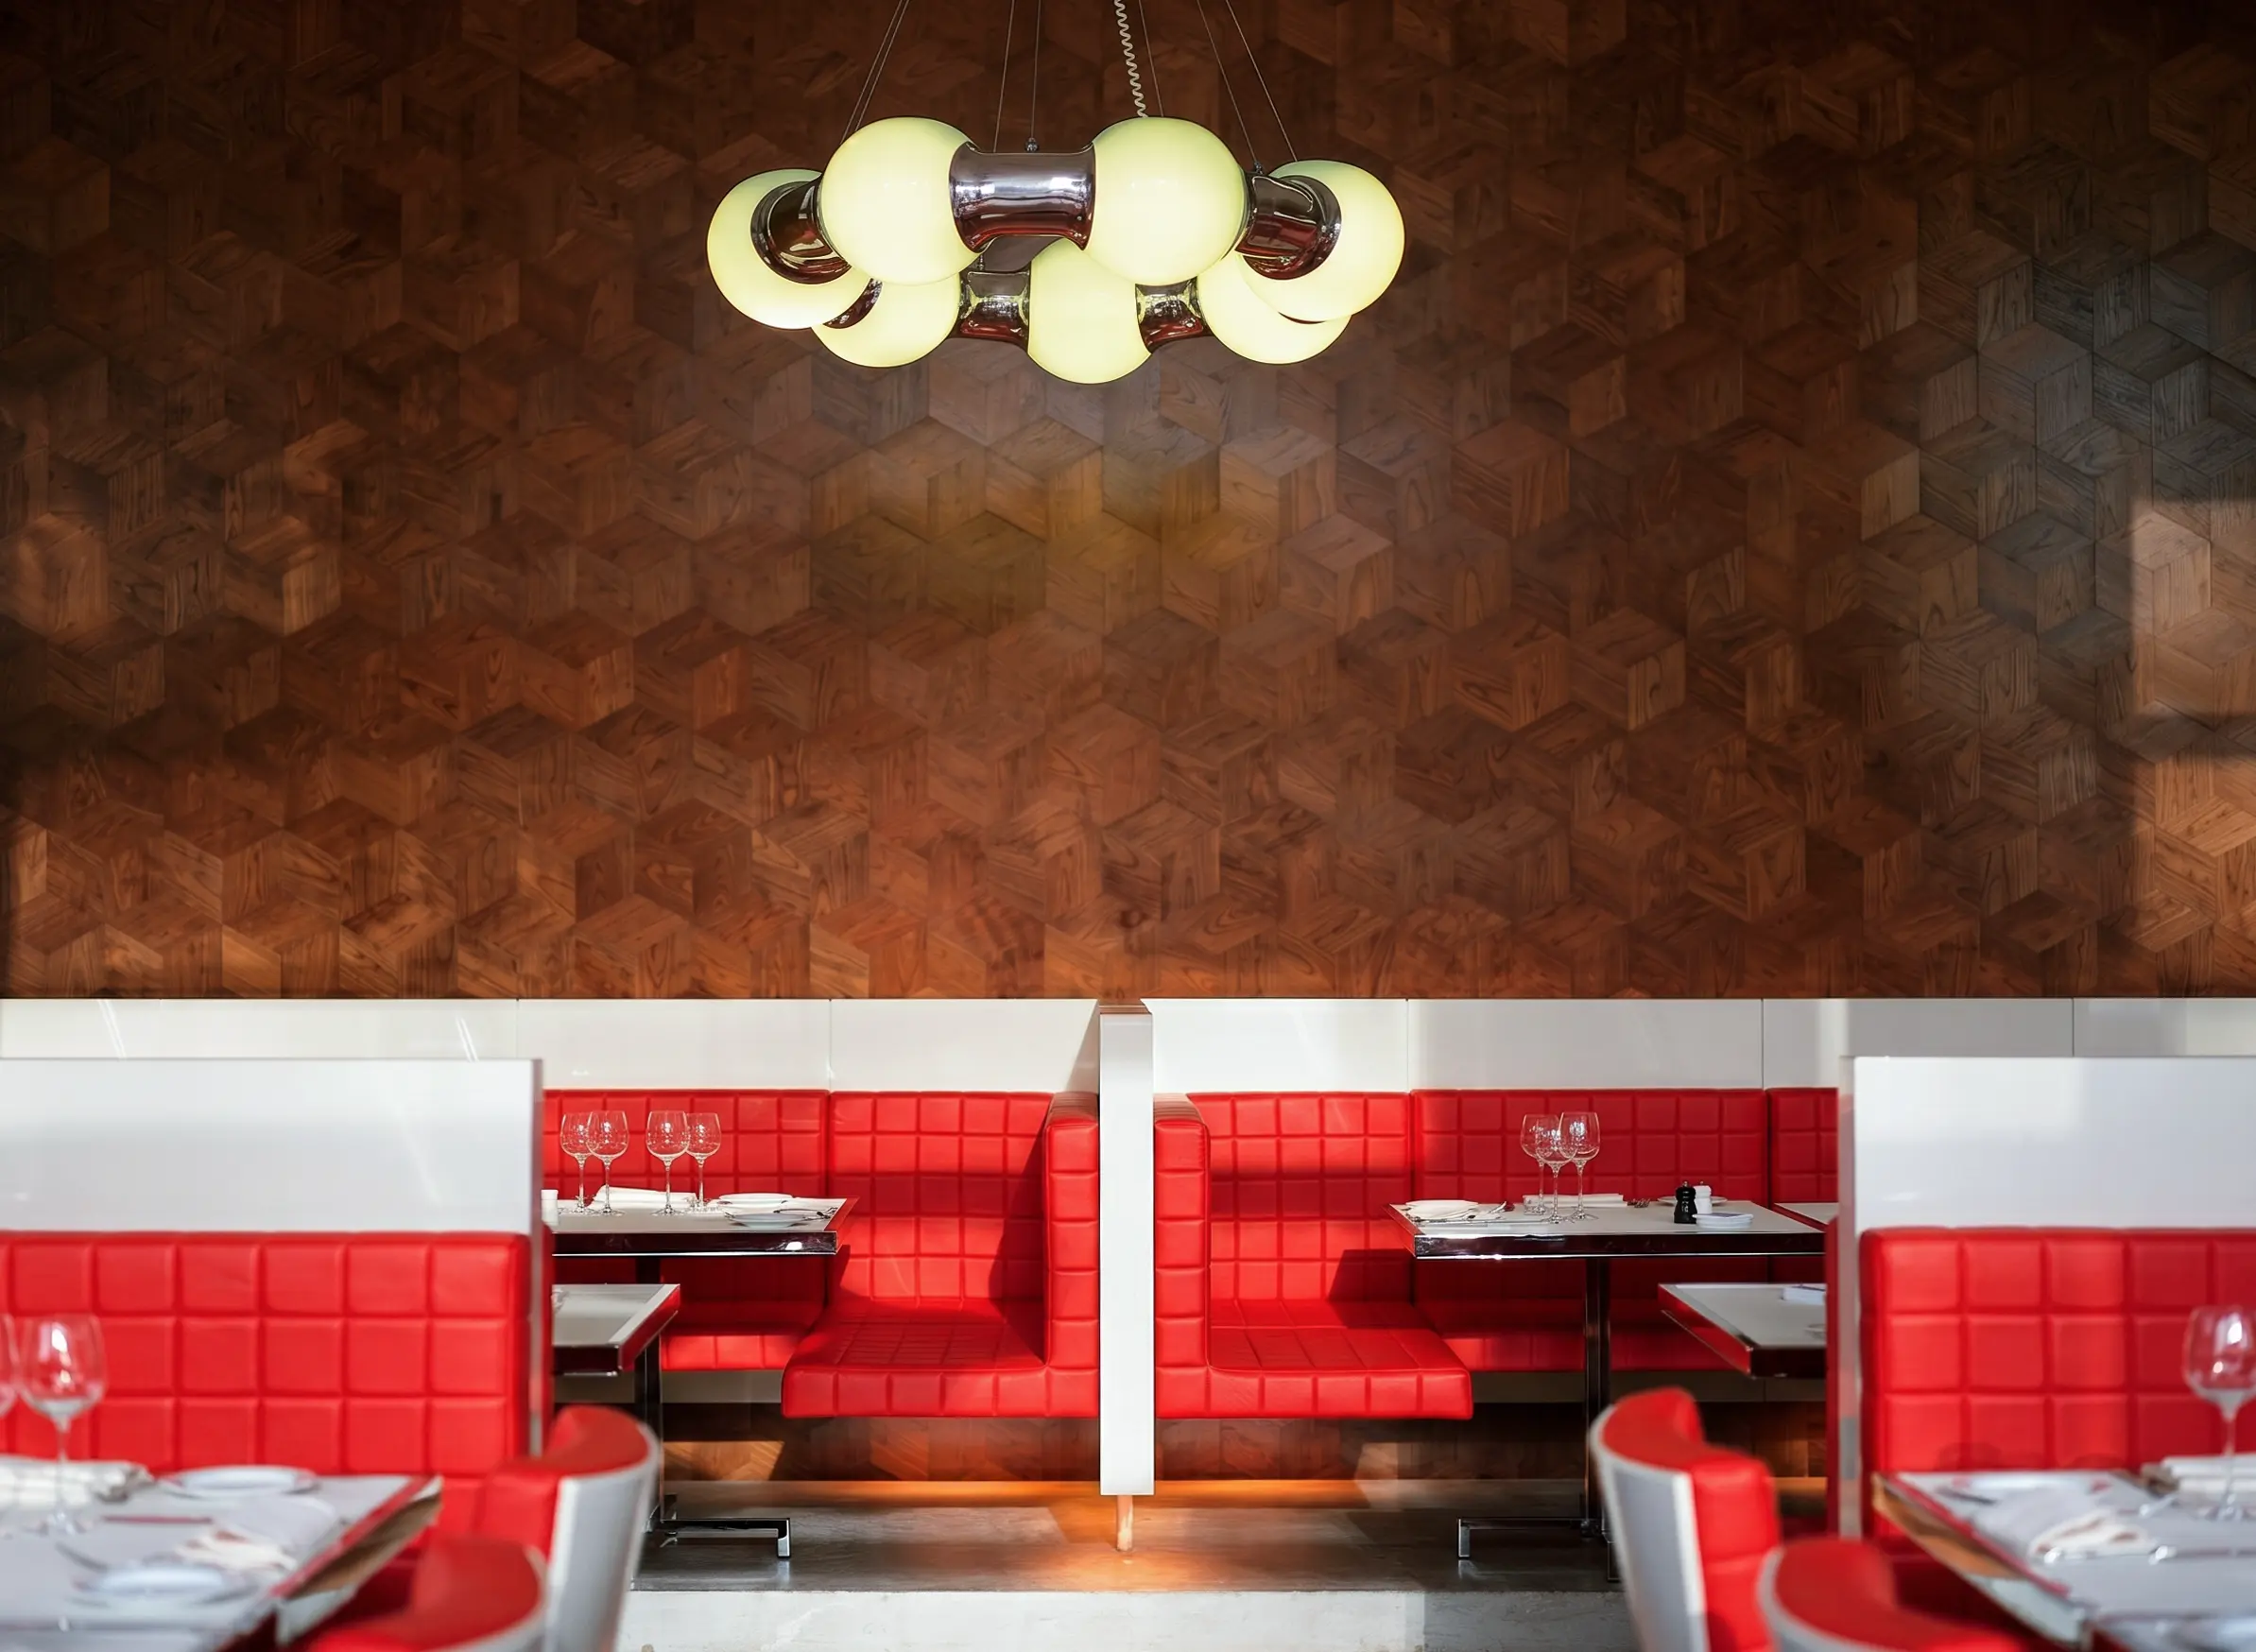
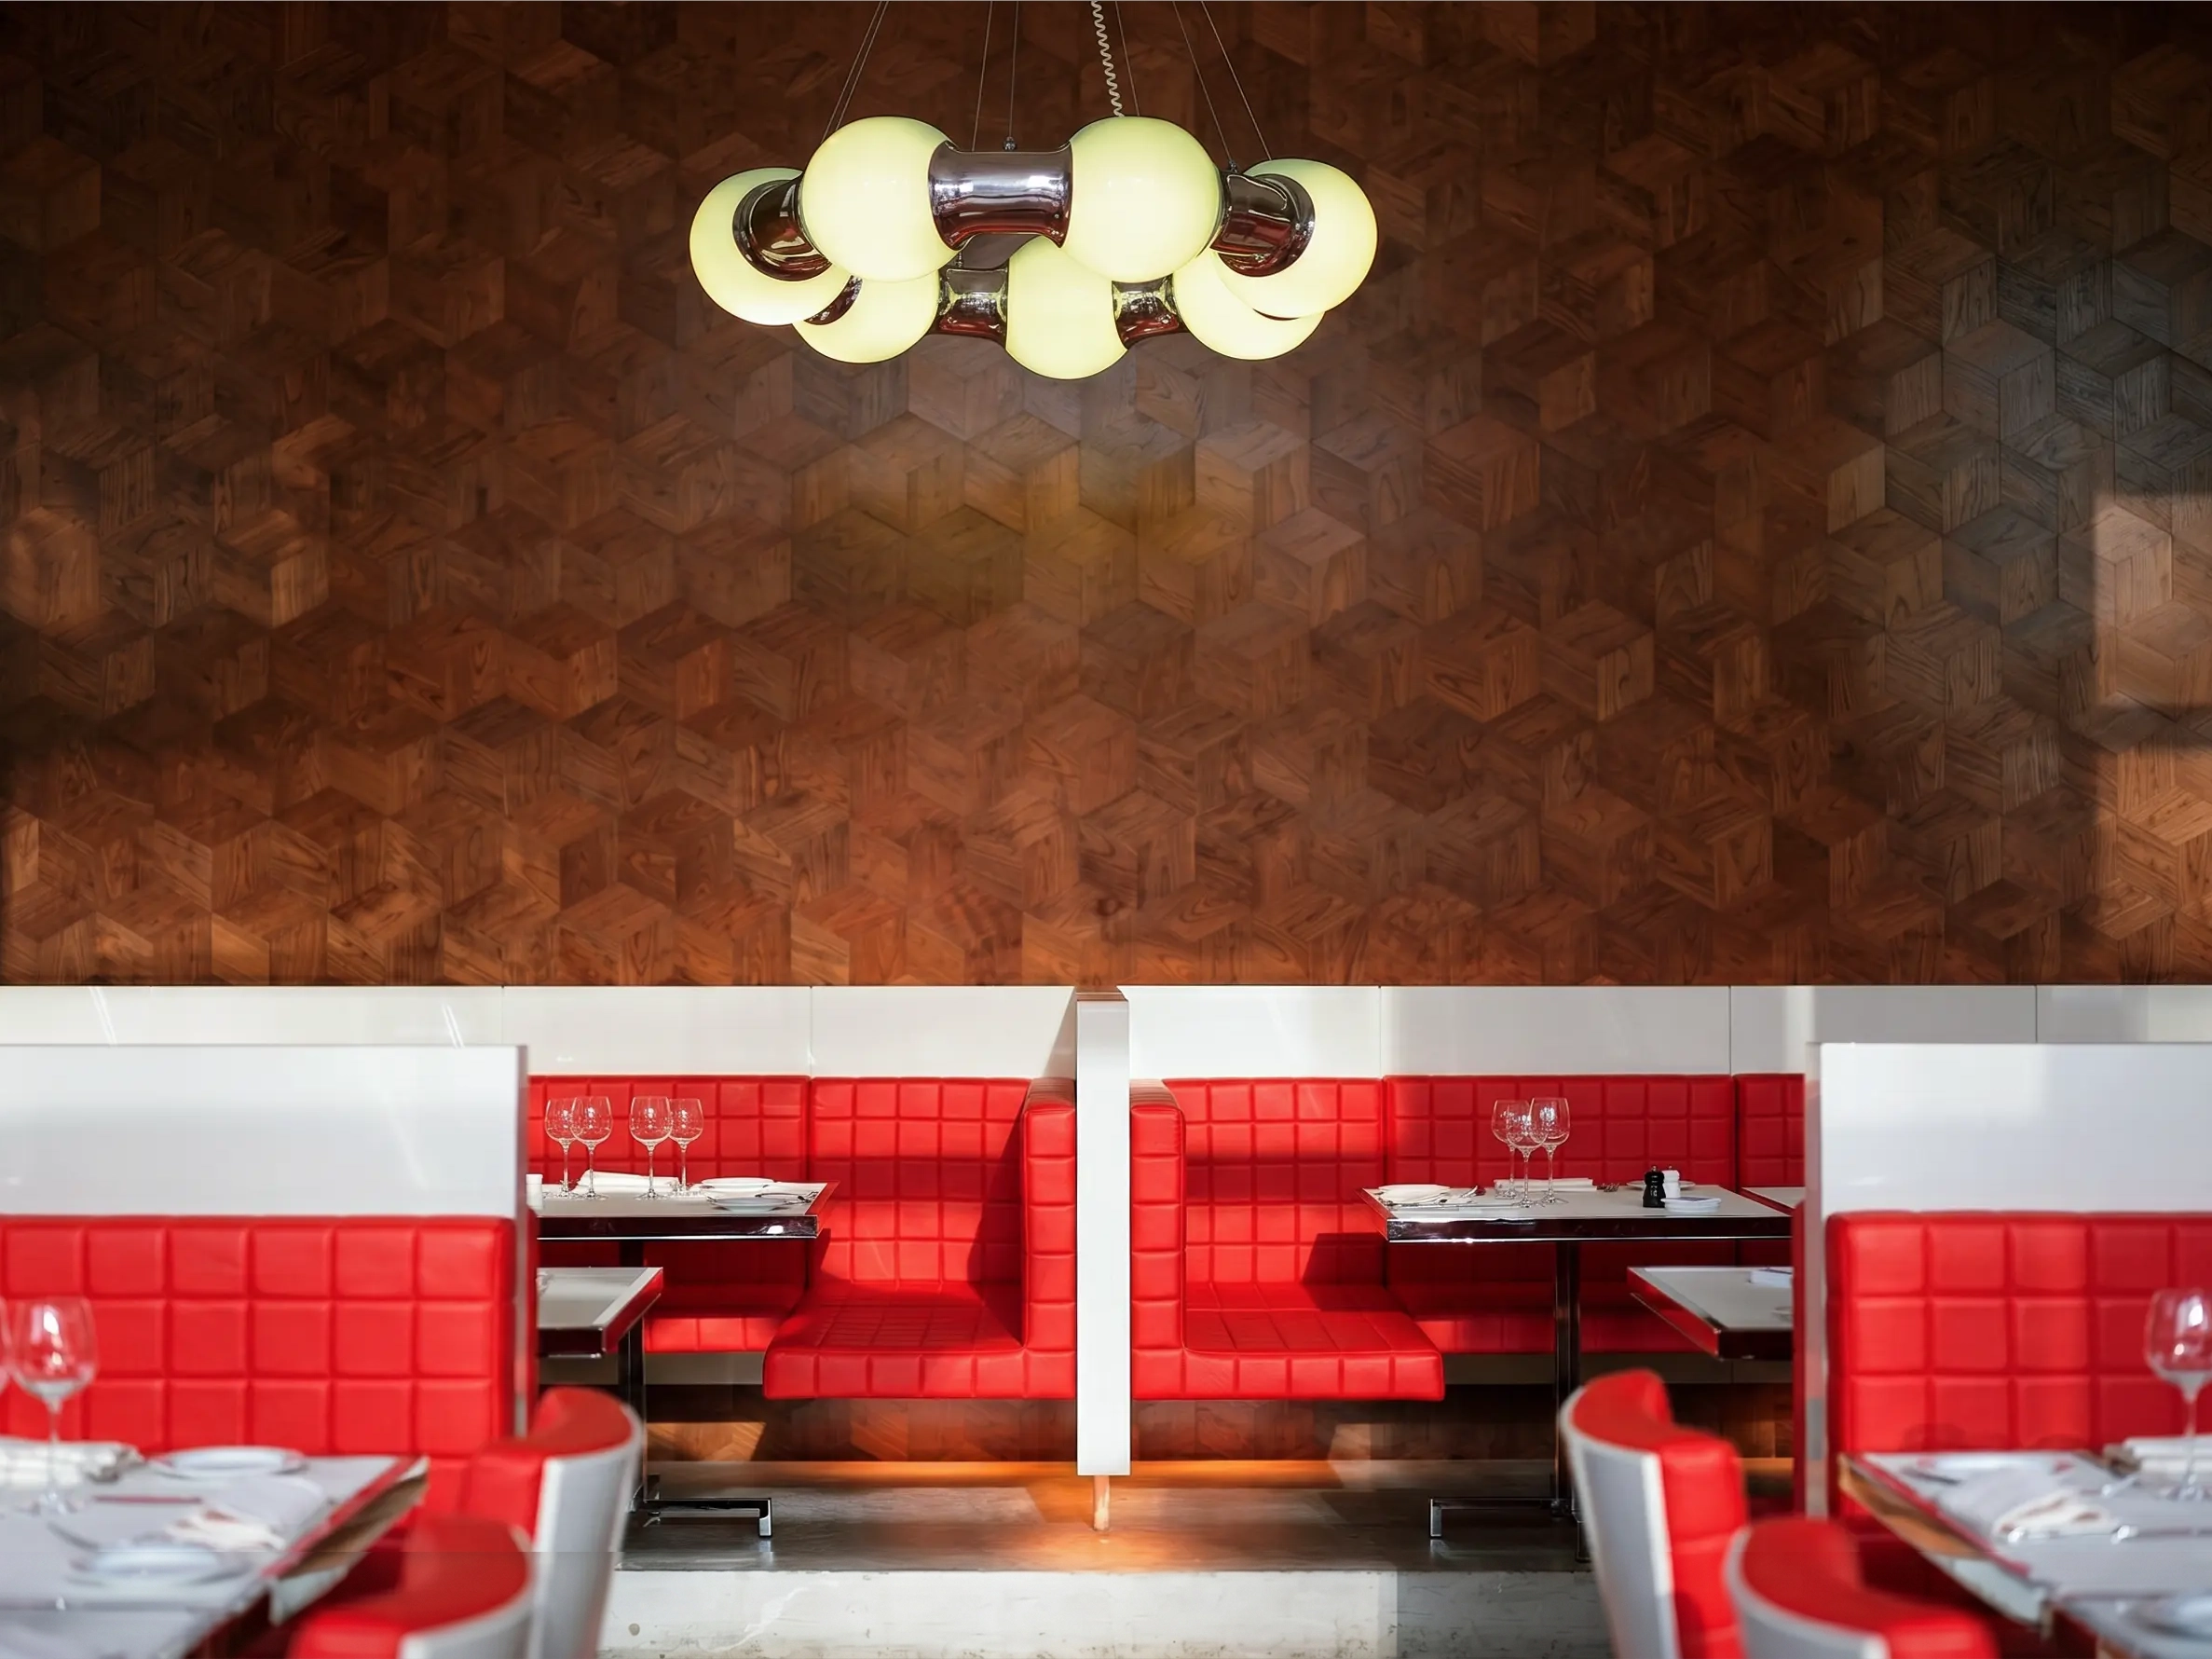
update on objects

diff --git a/js/home-renderer.js b/js/home-renderer.js
@@ -183,6 +183,20 @@ document.addEventListener("DOMContentLoaded", () => {
                     frameborder="0" allow="autoplay" title="Floating Video"></iframe>
             </div>`;
         }
+
+        if (item.type === 'model3d') {
+            const modelPath = `${ASSET_BASE}/assets/projects/${projectId}/${item.src}`;
+            const uid = `model3d-${Math.random().toString(36).slice(2, 9)}`;
+            
+            // 加入 aspect-ratio 确保画布有高度，加 cursor: grab 提示可拖拽
+            return `
+            <div class="model3d-wrapper" style="position: relative; width: 100%; aspect-ratio: 4/3; background: transparent; overflow: hidden; cursor: grab;">
+                <div class="model3d-canvas" id="${uid}" data-src="${modelPath}" style="width: 100%; height: 100%;"></div>
+                <div class="model-loading" id="load-${uid}" style="position: absolute; top: 50%; left: 50%; transform: translate(-50%, -50%); font-family: 'Tinos', serif; font-size: 1.2rem; color: #888; pointer-events: none;">
+                    Loading 3D Model...
+                </div>
+            </div>`;
+        }
         
         if (item.type === 'video') {
             // [重点修改]：Vimeo 视频强制竖版 (3:4)
@@ -372,6 +386,7 @@ document.addEventListener("DOMContentLoaded", () => {
         modalBody.innerHTML = htmlContent;
         initDepth3D(modalBody);
         initFloatingVideo(modalBody);
+        initModel3D(modalBody); // <--- 新增这行，触发 3D 模型渲染
         setTimeout(() => initVimeoSound(modalBody), 600);
         modalBody.querySelectorAll('.project-carousel').forEach(car => {
             const track = car.querySelector('.carousel-track');
@@ -778,15 +793,43 @@ function initFlipbooks(scope) {
         });
     }
 
-// === 3D 视差初始化（按需加载 Three.js）===
+
+    // 等首页格子渲染完再初始化（视频加载慢就调大这个数字）
+    setTimeout(initVimeoSound, 2000);
+
+    window.addEventListener("resize", debounce(resizeAllGridItems, 100));
+
+// === 3D 视差与模型共用的基础初始化（升级引入 RoomEnvironment）===
     let threeLoading = null;
     function loadThree() {
-        if (window.THREE) return Promise.resolve();
+        if (window.THREE && window.THREE.GLTFLoader && window.THREE.RoomEnvironment) return Promise.resolve();
         if (threeLoading) return threeLoading;
+        
         threeLoading = new Promise((res, rej) => {
             const s = document.createElement('script');
-            s.src = 'https://cdn.jsdelivr.net/npm/three@0.160.0/build/three.min.js';
-            s.onload = res;
+            s.src = 'https://cdn.jsdelivr.net/npm/three@0.147.0/build/three.min.js';
+            
+            s.onload = () => {
+                // 并行加载 GLTFLoader 和 RoomEnvironment
+                const s1 = document.createElement('script');
+                s1.src = 'https://cdn.jsdelivr.net/npm/three@0.147.0/examples/js/loaders/GLTFLoader.js';
+                const s2 = document.createElement('script');
+                s2.src = 'https://cdn.jsdelivr.net/npm/three@0.147.0/examples/js/environments/RoomEnvironment.js';
+                
+                let loadedCount = 0;
+                const checkDone = () => {
+                    loadedCount++;
+                    if (loadedCount === 2) res(); // 两个都加载完才算成功
+                };
+
+                s1.onload = checkDone;
+                s2.onload = checkDone;
+                s1.onerror = rej;
+                s2.onerror = rej;
+                
+                document.head.appendChild(s1);
+                document.head.appendChild(s2);
+            };
             s.onerror = rej;
             document.head.appendChild(s);
         });
@@ -845,7 +888,6 @@ function initFlipbooks(scope) {
             resize();
             window.addEventListener('resize', debounce(resize, 100));
 
-            // 眼睛跟随器（全局只建一个，多个 depth3d 共用）
             let eye = document.getElementById('depth3d-eye');
             if (!eye) {
                 eye = document.createElement('div');
@@ -863,7 +905,6 @@ function initFlipbooks(scope) {
                 const r = el.getBoundingClientRect();
                 tx = ((e.clientX - r.left) / r.width - 0.5);
                 ty = ((e.clientY - r.top) / r.height - 0.5);
-                // 眼睛跟随鼠标
                 if (!eyeRAF) {
                     requestAnimationFrame(() => {
                         eye.style.transform = `translate(${e.clientX}px, ${e.clientY}px)`;
@@ -874,7 +915,6 @@ function initFlipbooks(scope) {
             });
             el.addEventListener('mouseenter', () => {
                 eye.classList.add('active');
-                // 进入时眨一下
                 eye.classList.add('blink');
                 setTimeout(() => eye.classList.remove('blink'), 300);
             });
@@ -898,14 +938,11 @@ function initFlipbooks(scope) {
         }).catch(() => {});
     }
 
-
-   function initFloatingVideo(scope) {
+    function initFloatingVideo(scope) {
         if (typeof Vimeo === 'undefined') return;
         const nodes = scope.querySelectorAll('.floating-video:not([data-ready])');
         nodes.forEach(node => {
             node.setAttribute('data-ready', '1');
-
-            // 移到 body 下，摆脱弹窗的 transform 祖先，fixed 才相对视口
             document.body.appendChild(node);
 
             const iframe = node.querySelector('iframe');
@@ -918,7 +955,7 @@ function initFlipbooks(scope) {
             let playing = false;
             player.pause();
             node.addEventListener('mouseenter', () => {
-                if (node.classList.contains('minimized')) return;   // 缩起时不响应
+                if (node.classList.contains('minimized')) return;
                 if (playing) {
                     player.pause();
                     playing = false;
@@ -929,7 +966,6 @@ function initFlipbooks(scope) {
                 }
             });
 
-            // minimize 按钮
             const toggleBtn = node.querySelector('.fv-toggle');
             if (toggleBtn) {
                 toggleBtn.addEventListener('click', (e) => {
@@ -942,13 +978,147 @@ function initFlipbooks(scope) {
         });
     }
 
+    // === 3D 模型初始化 (PBR真实质感 + 边缘轮廓光) ===
+    async function initModel3D(scope) {
+        const nodes = scope.querySelectorAll('.model3d-canvas:not([data-ready])');
+        if (!nodes.length) return;
 
+        await loadThree();
+        const THREE = window.THREE;
 
+        // 1. 全局监听鼠标/触摸位置 (归一化到 -0.5 到 0.5)
+        let mouseX = 0;
+        let mouseY = 0;
+        if (!window._modelMouseListenerAdded) {
+            // 桌面端：鼠标移动
+            window.addEventListener('mousemove', (e) => {
+                mouseX = (e.clientX / window.innerWidth) - 0.5;
+                mouseY = (e.clientY / window.innerHeight) - 0.5;
+            });
+            
+            // 移动端：手指滑动 (加 passive:true 防止页面滚动卡顿)
+            window.addEventListener('touchmove', (e) => {
+                if (e.touches.length > 0) {
+                    mouseX = (e.touches[0].clientX / window.innerWidth) - 0.5;
+                    mouseY = (e.touches[0].clientY / window.innerHeight) - 0.5;
+                }
+            }, { passive: true });
+            
+            window._modelMouseListenerAdded = true;
+        }
 
+        nodes.forEach(el => {
+            el.setAttribute('data-ready', '1');
+            const modelUrl = el.getAttribute('data-src');
+            const loaderUI = document.getElementById('load-' + el.id);
 
+            const w = el.clientWidth;
+            const h = el.clientHeight;
 
-    // 等首页格子渲染完再初始化（视频加载慢就调大这个数字）
-    setTimeout(initVimeoSound, 2000);
+            const scene = new THREE.Scene();
+            
+            // 相机归零，稍微拉远，死死盯住画面正中心 (解决模型偏下的问题)
+            const camera = new THREE.PerspectiveCamera(45, w / h, 0.1, 1000);
+            camera.position.set(0, 0, 6); 
+            camera.lookAt(0, 0, 0);
 
-    window.addEventListener("resize", debounce(resizeAllGridItems, 100));
-});
+            // 保持背景透明，融入你的网页纯白底色
+            const renderer = new THREE.WebGLRenderer({ antialias: true, alpha: true });
+            renderer.setSize(w, h);
+            renderer.setPixelRatio(Math.min(window.devicePixelRatio, 2));
+            
+            // 🌟 核心魔法 1：开启物理色彩空间，金属质感飞升
+            renderer.outputEncoding = THREE.sRGBEncoding;
+            renderer.toneMapping = THREE.ACESFilmicToneMapping;
+            renderer.toneMappingExposure = 1.0; 
+            
+            el.appendChild(renderer.domElement);
+
+            // 🌟 核心魔法 2：生成虚拟摄影棚环境 (提供四周的反射光斑)
+            const pmremGenerator = new THREE.PMREMGenerator(renderer);
+            pmremGenerator.compileEquirectangularShader();
+            scene.environment = pmremGenerator.fromScene(new THREE.RoomEnvironment(), 0.04).texture;
+
+            // 🌟 核心魔法 3：高级打光法则
+            // 基础微弱环境光（防止暗部彻底死黑）
+            scene.add(new THREE.AmbientLight(0xffffff, 0.3));
+
+            // 正面补光 (Fill Light)：温柔照亮正面细节
+            const fillLight = new THREE.DirectionalLight(0xffffff, 1.2);
+            fillLight.position.set(2, 2, 5);
+            scene.add(fillLight);
+
+            // 强烈轮廓光 (Rim Light)：从左后上方打过来，专门刮擦金属边缘，勾勒轮廓！
+            const rimLight = new THREE.DirectionalLight(0xffaa77, 3.0); // 稍微带一点暖色调的高光
+            rimLight.position.set(-5, 5, -5);
+            scene.add(rimLight);
+
+            let targetGroup = null;
+
+            const loader = new THREE.GLTFLoader();
+            loader.load(modelUrl, (gltf) => {
+                if(loaderUI) loaderUI.style.display = 'none'; 
+                const model = gltf.scene;
+
+                // 强制中心归零大法
+                const box = new THREE.Box3().setFromObject(model);
+                const center = box.getCenter(new THREE.Vector3());
+                const size = box.getSize(new THREE.Vector3());
+                model.position.sub(center);
+
+                // 根据原始尺寸进行自适应缩放
+                const maxDim = Math.max(size.x, size.y, size.z);
+                if (maxDim > 0) {
+                    model.scale.setScalar(3.5 / maxDim);
+                }
+
+                // 放进 Group 中，旋转这个 Group 而不是模型本身，保证轴心不乱
+                targetGroup = new THREE.Group();
+                targetGroup.add(model);
+                scene.add(targetGroup);
+
+            }, undefined, (error) => {
+                console.error('GLTF Load Error:', error);
+                if(loaderUI) loaderUI.innerText = 'Load failed. Please check the file path.';
+            });
+
+            function animate() {
+                requestAnimationFrame(animate);
+                
+                if (targetGroup) {
+                    // 获取当前时间的秒数，用来做平滑的周期性动画
+                    const time = performance.now() * 0.001; 
+
+                    // 基础的鼠标/手指跟随逻辑
+                    const targetRotY = mouseX * Math.PI * 1.5; 
+                    const targetRotX = mouseY * Math.PI * 0.5; 
+                    
+                    // 🌟 注入灵魂：即使鼠标不动，也叠加一个基于时间的极缓慢自转 (呼吸感)
+                    const autoRotY = Math.sin(time * 0.5) * 0.2; 
+                    const autoRotX = Math.cos(time * 0.7) * 0.1;
+                    
+                    // 计算最终角度并加上阻尼平滑
+                    targetGroup.rotation.y += ((targetRotY + autoRotY) - targetGroup.rotation.y) * 0.05;
+                    targetGroup.rotation.x += ((targetRotX + autoRotX) - targetGroup.rotation.x) * 0.05;
+                    
+                    // 附加小彩蛋：让模型稍微有一点点上下浮动，更加生动
+                    targetGroup.position.y = Math.sin(time * 1.5) * 0.03; 
+                }
+
+                renderer.render(scene, camera);
+            }
+            animate();
+
+            const resizeObserver = new ResizeObserver(() => {
+                const nw = el.clientWidth;
+                const nh = el.clientHeight;
+                if(nw === 0 || nh === 0) return;
+                renderer.setSize(nw, nh);
+                camera.aspect = nw / nh;
+                camera.updateProjectionMatrix();
+            });
+            resizeObserver.observe(el);
+        });
+    }
+
+}); // <--- DOMContentLoaded 总事件监听闭合，必须是文件最后一行

diff --git a/js/data-projects.js b/js/data-projects.js
@@ -521,8 +521,9 @@ const dataProjects = [
             { type: "image", src: "4.webp", layout: "full" },
             { type: "image", src: "2.webp", layout: "narrow" },
             { type: "image", src: "3.webp", layout: "half" },
-            { type: "text-file", src: "desc01.txt", title: " ", layout: "half" },
+            { type: "text-file", src: "Light and Dark.txt", title: "Light and Dark", layout: "half" },
             { type: "image", src: "5.webp", layout: "full" },
+            { type: "text-file", src: "The Spin.txt", title: "The Spin", layout: "half" },
             { type: "image", src: "1.webp", layout: "full" },
         ]
     },
@@ -761,12 +762,17 @@ const dataProjects = [
         filename: "01.webp",
         layout: "half",
         content: [
-            { type: "text-file", src: "desc.txt", title: " ", bold: true, layout: "full" },
-            { type: "image", src: "06.webp", layout: "half" },
-            { type: "image", src: "02.webp", layout: "half",matchRow: true },
-            { type: "image", src: "05.webp", layout: "narrow" },
-            { type: "image", src: "04.webp", layout: "narrow" },
-            { type: "image", src: "01.webp", layout: "full" },
+            { type: 'carousel', layout: 'full', images: ['01.webp', '1.webp']},
+            { type: "video", provider: "vimeo", src: "1204501982", sound: true, layout: "half"},
+            { type: "image", src: "06.webp", layout: "half",matchRow: true  },
+            
+            { type: "image", src: "02.webp", layout: "full"},
+            { type: "image", src: "05.webp", layout: "half" },
+            { type: "image", src: "blank.webp", layout: "half",matchRow: true },
+            { type: "image", src: "blank.webp", layout: "half",matchRow: true },
+            { type: "image", src: "04.webp", layout: "half" },
+            
+            
         ]
     },
 

diff --git a/js/data-objects.js b/js/data-objects.js
@@ -37,10 +37,15 @@ const dataObjects = [
         type: "image", filename: "main.webp", layout: "center",
         content: [
             { type: "text-file", src: "desc01.txt", title: " ", bold: true, layout: "full" }, 
-            { type: "image", src: "main.webp", layout: "full" },
-            { type: "image", src: "01.webp", layout: "full" },
-            { type: "image", src: "02.webp", layout: "full" },
-            { type: "image", src: "03.webp", layout: "full" },
+            { type: 'model3d', layout: 'wide', src: 'obj-01-polizzi-handle.glb' },
+            { type: "image", src: "01.webp", layout: "narrow" },
+            { type: "image", src: "blank.webp", layout: "half" },
+            { type: "image", src: "02.webp", layout: "narrow" },
+            { type: "image", src: "03.webp", layout: "narrow" },
+            { type: 'model3d', layout: 'wide', src: 'obj-01-polizzi-handle-01.glb' },
+            { type: "image", src: "main.webp", layout: "half" },
+            
+           
         ]
     },
 

diff --git a/css/home.css b/css/home.css
@@ -886,3 +886,7 @@ body:has(.grid-mode) .copy-tip { background-color: #F1F0EA !important; color: #0
 .floating-video.minimized iframe {
     display: none;
 }
+
+
+.model3d-wrapper { cursor: grab; }
+.model3d-wrapper:active { cursor: grabbing; }